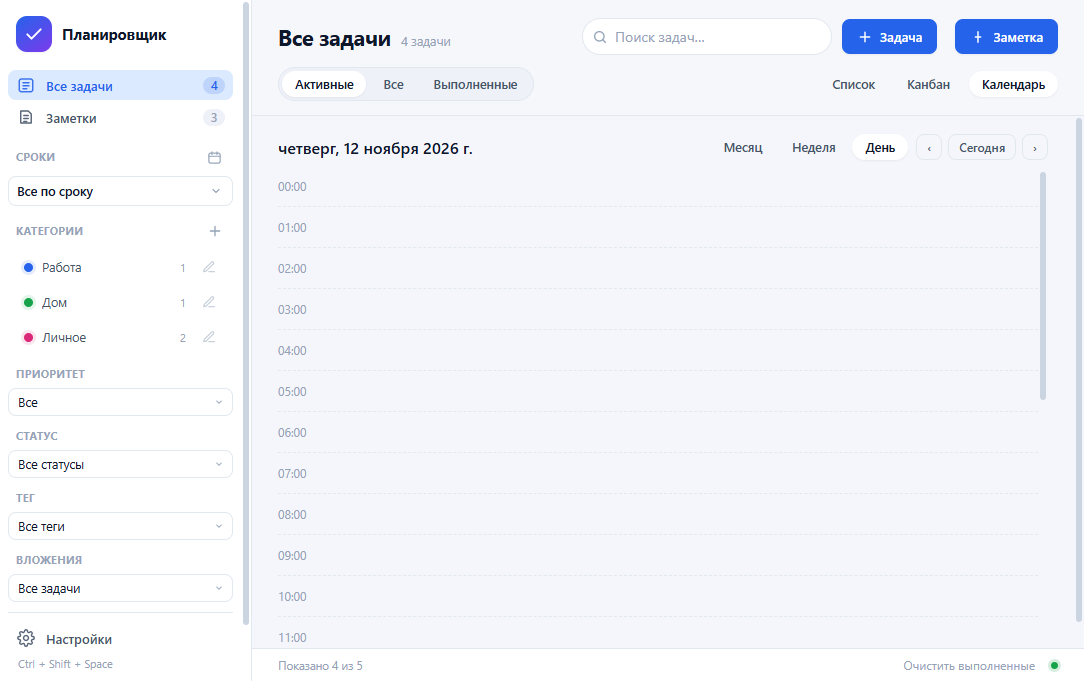
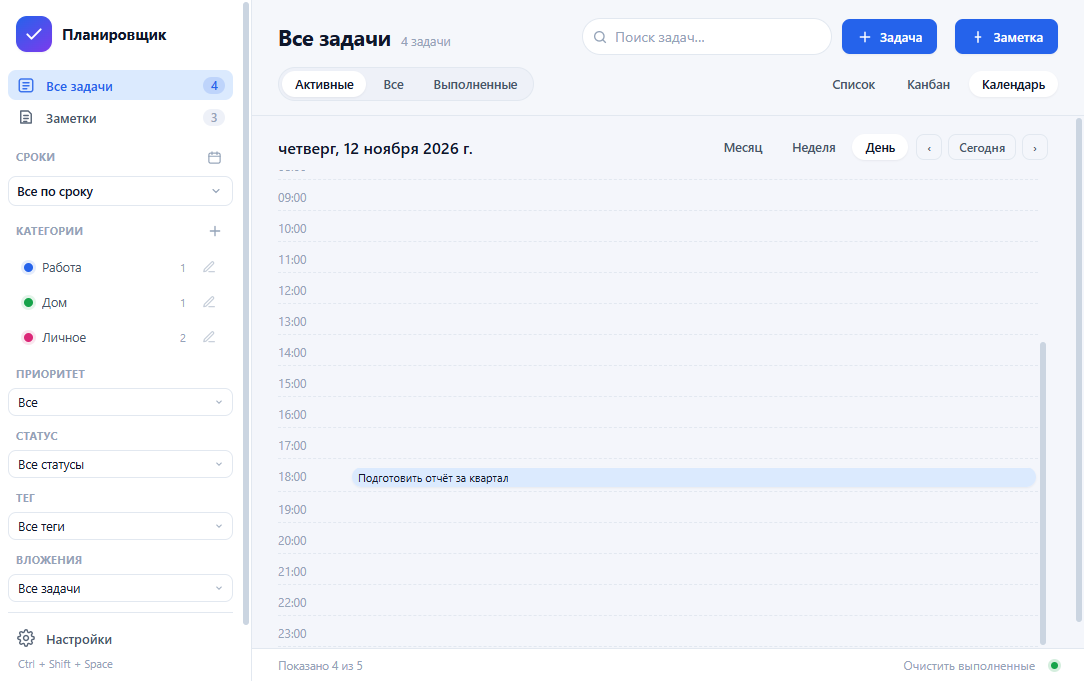
fix(ui): прокрутка дневного календаря к задачам и стиль полей даты/времени

diff --git a/src/renderer/styles.css b/src/renderer/styles.css
@@ -1623,6 +1623,27 @@ button {
   color: var(--text-muted);
 }
 
+/* Поля даты и времени приводим к общему стилю форм. */
+.input[type='date'],
+.input[type='time'] {
+  min-height: 37px;
+  font-variant-numeric: tabular-nums;
+}
+.input[type='date']::-webkit-datetime-edit,
+.input[type='time']::-webkit-datetime-edit {
+  padding: 0;
+}
+.input[type='date']::-webkit-calendar-picker-indicator,
+.input[type='time']::-webkit-calendar-picker-indicator {
+  opacity: 0.5;
+  cursor: pointer;
+  padding: 0;
+}
+.input[type='date']::-webkit-calendar-picker-indicator:hover,
+.input[type='time']::-webkit-calendar-picker-indicator:hover {
+  opacity: 0.95;
+}
+
 .input-lg {
   font-size: 15px;
   font-weight: 600;
@@ -2686,16 +2707,16 @@ html[data-theme='dark'] .recurrence-badge {
   grid-template-columns: 64px 1fr;
   gap: 8px;
   align-items: start;
-  padding: 4px 0;
+  padding: 2px 0;
   border-bottom: 1px dashed var(--border);
 }
 .calendar-day-slot-label {
   font-size: 12px;
   color: var(--text-muted);
-  padding-top: 4px;
+  padding-top: 3px;
 }
 .calendar-day-slot-body {
-  min-height: 28px;
+  min-height: 22px;
   display: flex;
   flex-direction: column;
   gap: 4px;

diff --git a/src/renderer/modules/task-list.js b/src/renderer/modules/task-list.js
@@ -593,6 +593,13 @@
           grid.appendChild(slot);
         }
         container.appendChild(grid);
+        // Прокручиваем дневную сетку к первому часу с задачами.
+        setTimeout(() => {
+          const firstBusy = grid.querySelector('.calendar-day-slot-body:not(:empty)');
+          if (!firstBusy) return;
+          const busySlot = firstBusy.closest('.calendar-day-slot');
+          grid.scrollTop = Math.max(0, busySlot.offsetTop - 48);
+        }, 0);
       } else {
         // month
         const viewDate = new Date(anchor.getFullYear(), anchor.getMonth(), 1);

diff --git a/.tmp_release_notes_v201.md b/.tmp_release_notes_v201.md
@@ -1,0 +1,15 @@
+## v2.0.1
+
+Патч с исправлениями внешнего вида интерфейса 2.0.
+
+### Исправлено
+- **Сайдбар:** устранено наложение блока «Настройки» на разделы фильтров; сайдбар прокручивается целиком.
+- **Фильтр по срокам:** свой диапазон дат свёрнут под кнопку-календарь (поля компактные), раскрывается при выборе даты.
+- **Канбан:** заголовки задач больше не сжимаются до одного символа (приоритет перенесён в мета-строку, действия вынесены из потока).
+- **Календарь «Неделя»:** убран горизонтальный скролл, календарь использует всю ширину окна.
+
+### Дополнительно
+- Автосъёмка интерфейса: `npm run shots` (демо-профиль, светлая и тёмная темы).
+- Скриншоты интерфейса 2.0 в `docs/screenshots/`.
+
+Подробности: `CHANGELOG.md`.
